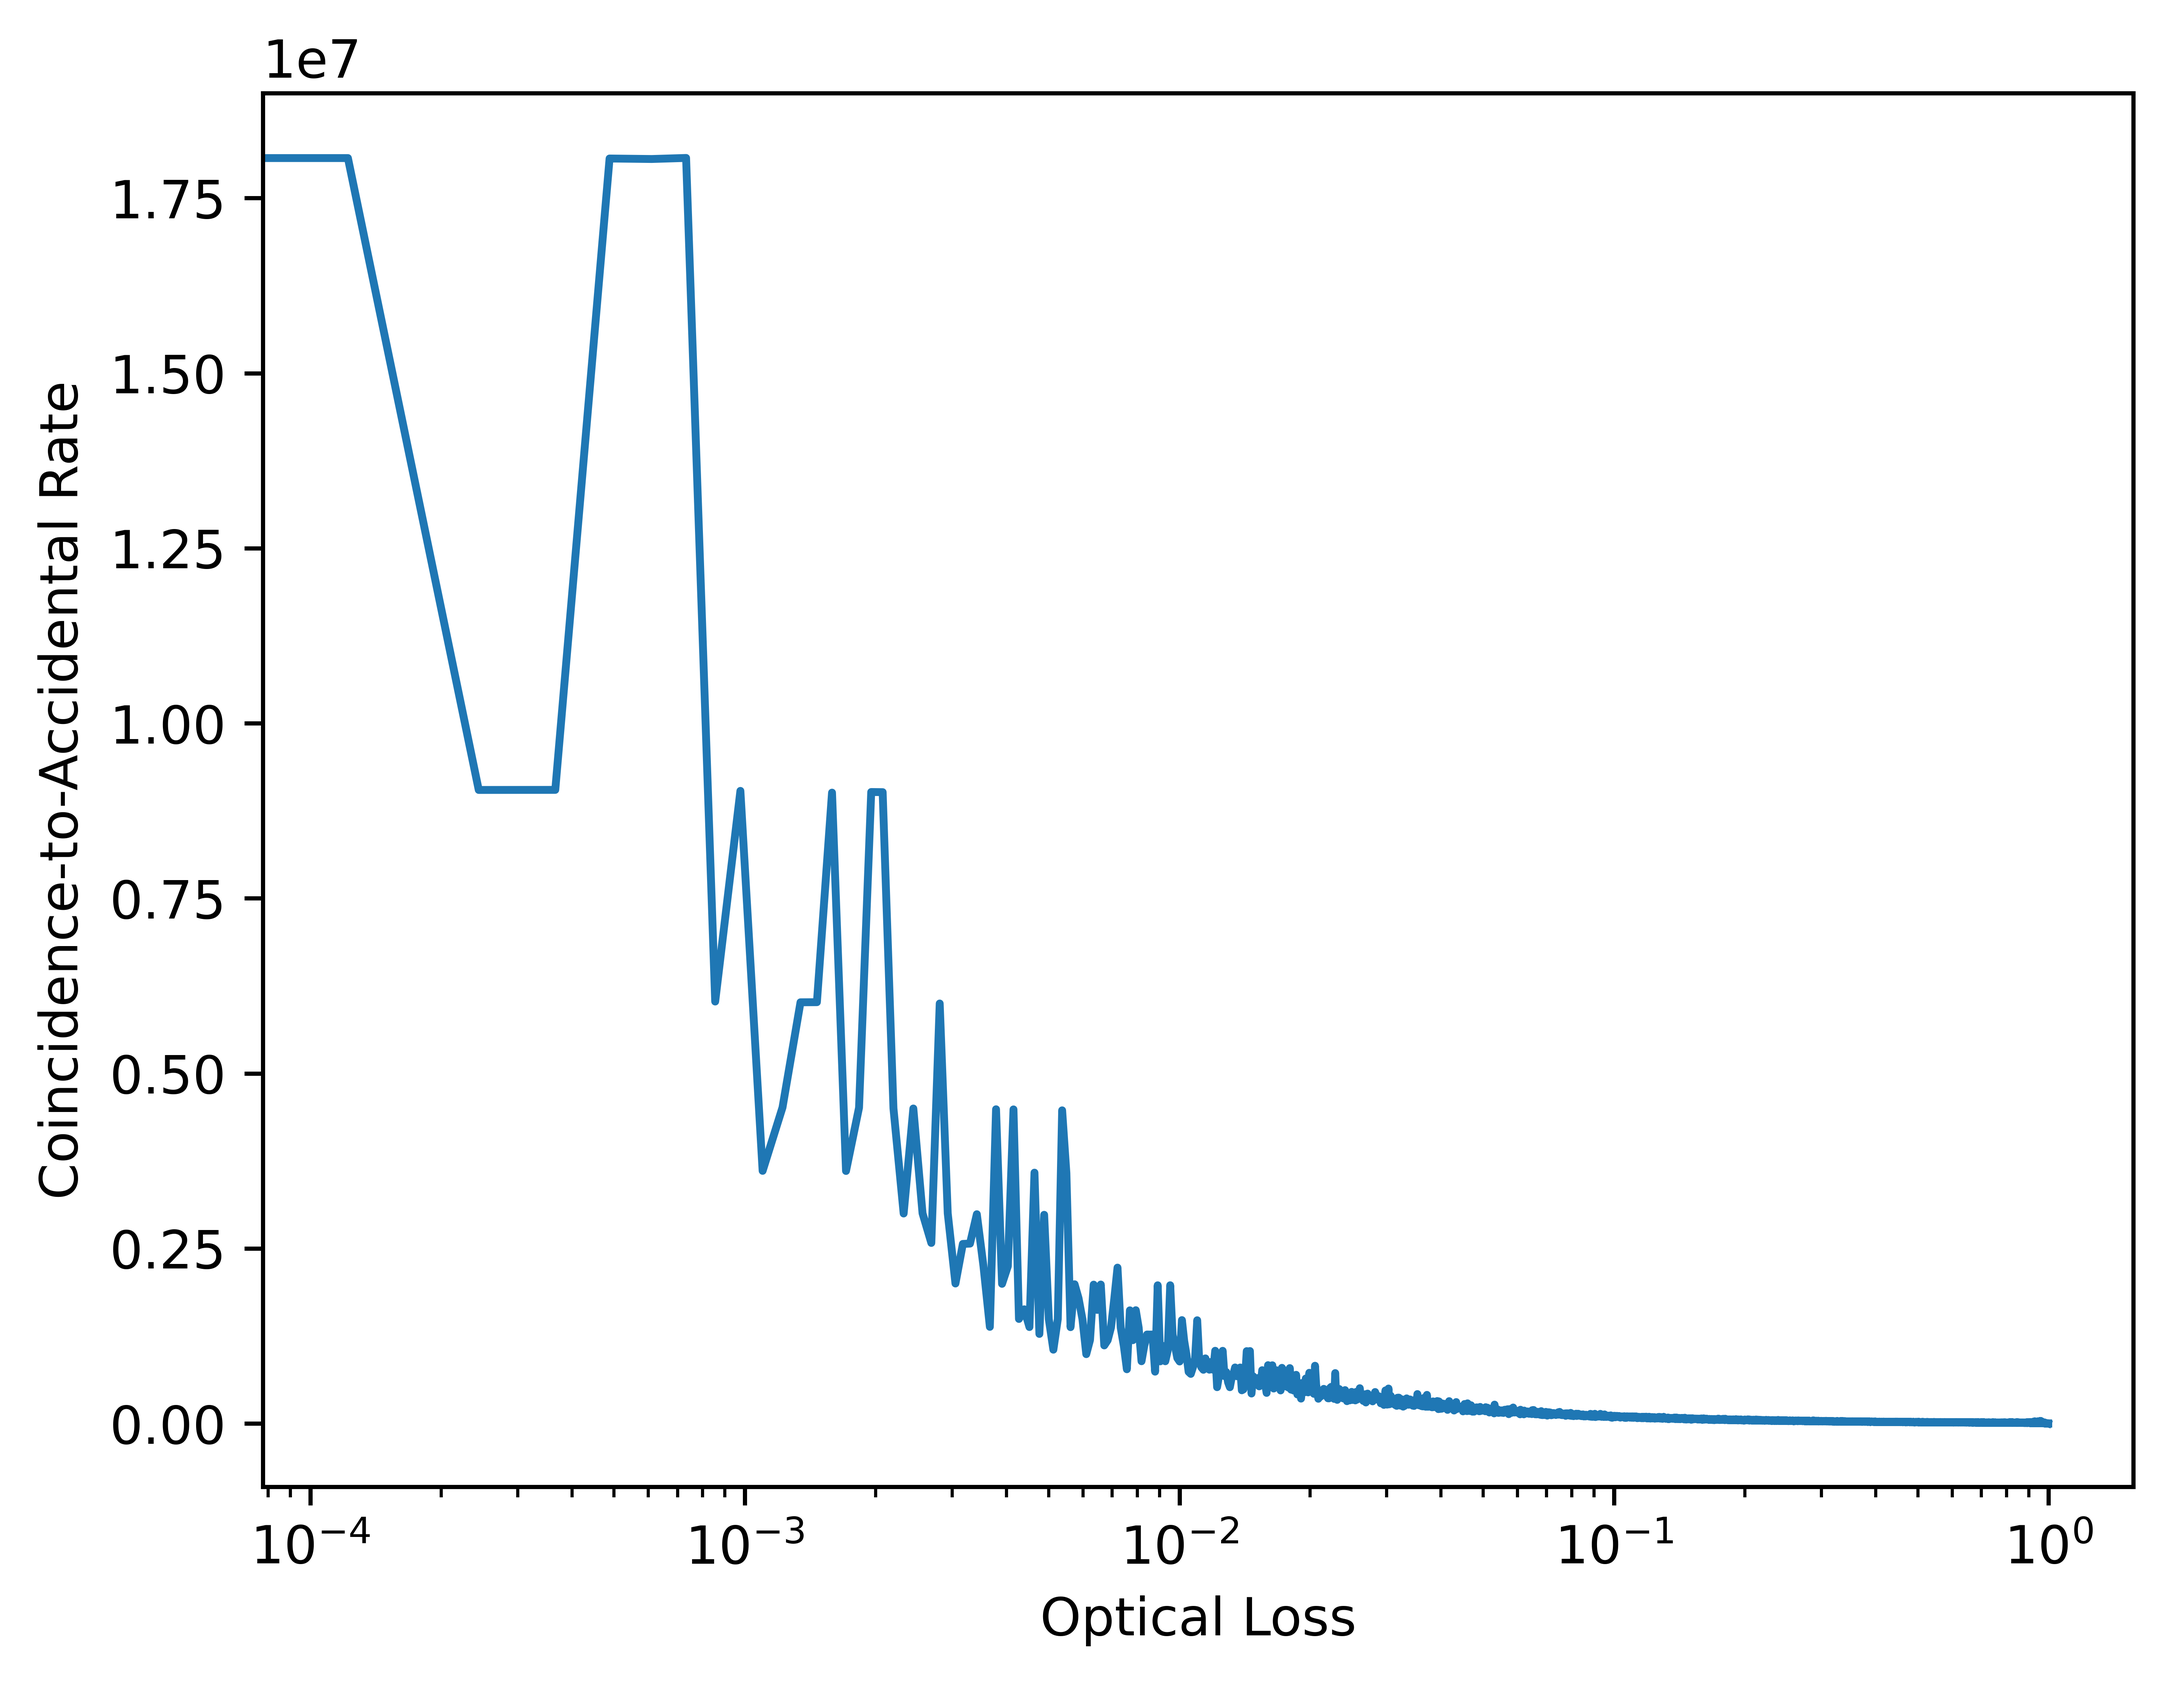
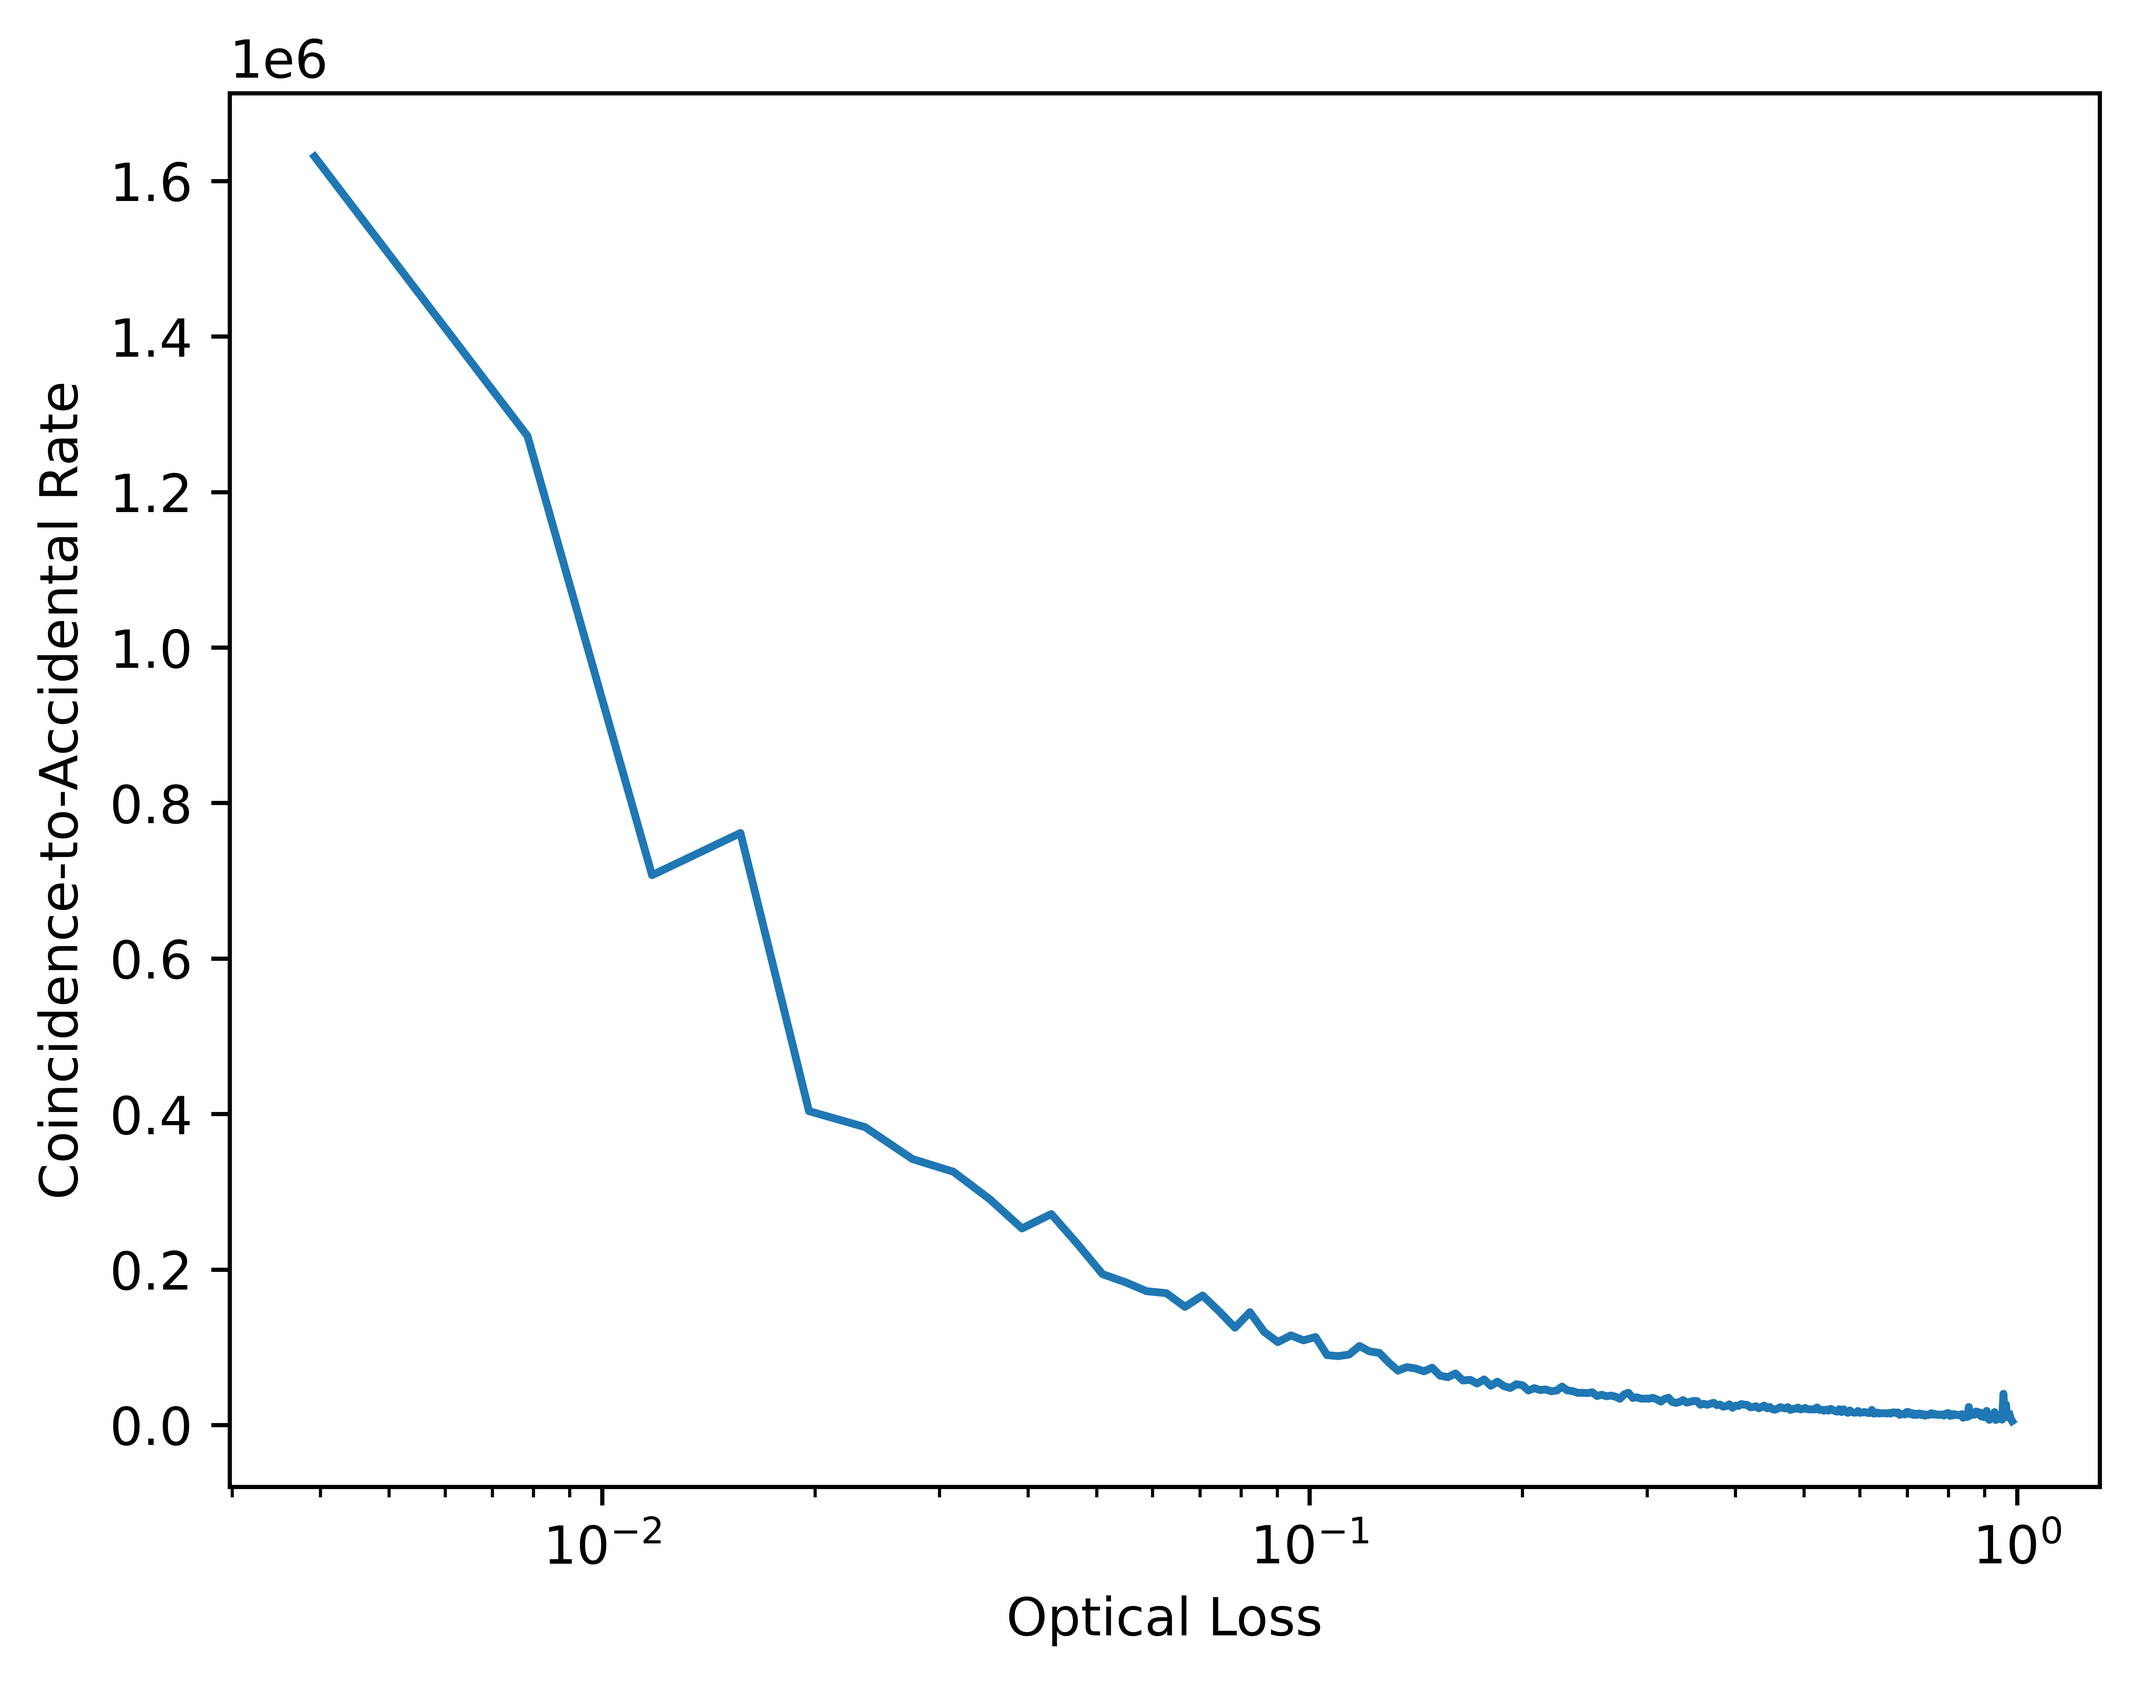
fixed car vs loss

diff --git a/simulations_with_practical_issues/Simulator.py b/simulations_with_practical_issues/Simulator.py
@@ -28,11 +28,11 @@ class Simulator:
         self.timestamps_idler = []
 
         self.max_counts = 0
-        self.histo = np.array
-        self.dtime = np.array
-        self.bins = np.array
-        self.accidentals = np.array
-        self.coincidences = np.array
+        self.histo = 0
+        self.dtime = 0
+        self.bins = 0
+        self.accidentals = 0
+        self.coincidences = 0
 
     def run(self):
         # generate pseudo timestamps following an exponential distribution
@@ -83,49 +83,49 @@ class Simulator:
 
         # ___________________________________________________________________
         # count coincidences
+        if len(self.timestamps_signal) > 0 and len(self.timestamps_idler):
+            range_ps = 200000           # checks the time difference for (-range_ps/2, range_ps/2)
 
-        range_ps = 200000           # checks the time difference for (-range_ps/2, range_ps/2)
+            s_floor = np.int64(np.floor(np.array(self.timestamps_signal) / (range_ps / 2)))
+            i_floor = np.int64(np.floor(np.array(self.timestamps_idler) / (range_ps / 2)))
+            coinc0 = np.intersect1d(s_floor, i_floor, return_indices=True)
+            coinc1 = np.intersect1d(s_floor, i_floor - 1, return_indices=True)
+            coinc2 = np.intersect1d(s_floor, i_floor + 1, return_indices=True)
+            coinc = np.hstack((coinc0, coinc1, coinc2))
 
-        s_floor = np.int64(np.floor(np.array(self.timestamps_signal) / (range_ps / 2)))
-        i_floor = np.int64(np.floor(np.array(self.timestamps_idler) / (range_ps / 2)))
-        coinc0 = np.intersect1d(s_floor, i_floor, return_indices=True)
-        coinc1 = np.intersect1d(s_floor, i_floor - 1, return_indices=True)
-        coinc2 = np.intersect1d(s_floor, i_floor + 1, return_indices=True)
-        coinc = np.hstack((coinc0, coinc1, coinc2))
+            s_time = np.array(self.timestamps_signal)[coinc[1]]
+            i_time = np.array(self.timestamps_idler)[coinc[2]]
+            self.dtime = s_time - i_time
 
-        s_time = np.array(self.timestamps_signal)[coinc[1]]
-        i_time = np.array(self.timestamps_idler)[coinc[2]]
-        self.dtime = s_time - i_time
+            # iterate over coincidence_interval, find max of the max(histo)'s
+            num_steps = 2           # the number of dt's checked for the max
+            for dt in np.arange(0, self.coincidence_interval, self.coincidence_interval/num_steps):
+                bins = np.arange(-range_ps/2 + dt, range_ps/2 + self.coincidence_interval, self.coincidence_interval)
+                histo = np.histogram(self.dtime, bins)[0]
+                curr_count = max(histo)
+                if curr_count > self.max_counts:
+                    self.max_counts = curr_count
+                    self.bins = bins
+                    self.histo = histo
+                else:
+                    break
 
-        # iterate over coincidence_interval, find max of the max(histo)'s
-        num_steps = 2           # the number of dt's checked for the max
-        for dt in np.arange(0, self.coincidence_interval, self.coincidence_interval/num_steps):
-            bins = np.arange(-range_ps / 2 + dt, range_ps / 2 + self.coincidence_interval, self.coincidence_interval)
-            histo = np.histogram(self.dtime, bins)[0]
-            curr_count = max(histo)
-            if curr_count > self.max_counts:
-                self.max_counts = curr_count
-                self.bins = bins
-                self.histo = histo
-            else:
-                break
+            # TODO: fix CAR calculation
+            # ___________________________________________________________________
+            # seperate coincidences and accidentals
 
-        # TODO: fix CAR calculation
-        # ___________________________________________________________________
-        # seperate coincidences and accidentals
+            epsilon = 1             # the difference in means allowed amoung the accidentals
+            max_i = np.argmax(self.histo)
+            i = 0
+            prev = np.mean(np.delete(self.histo, range(max_i - i, max_i + i + 1)))
+            curr = np.mean(np.delete(self.histo, range(max_i - i - 1, max_i + i + 2)))
+            while abs(prev - curr) > epsilon:
+                i += 1
+                prev = np.mean(np.delete(self.histo, range(max_i - i, max_i + i + 1)))
+                curr = np.mean(np.delete(self.histo, range(max_i - i - 1, max_i + i + 2)))
 
-        # epsilon = 1             # the difference in means allowed amoung the accidentals
-        # max_i = np.argmax(self.histo)
-        # i = 0
-        # prev = np.mean(np.delete(self.histo, range(max_i - i, max_i + i + 1)))
-        # curr = np.mean(np.delete(self.histo, range(max_i - i - 1, max_i + i + 2)))
-        # while abs(prev - curr) > epsilon:
-        #     i += 1
-        #     prev = np.mean(np.delete(self.histo, range(max_i - i, max_i + i + 1)))
-        #     curr = np.mean(np.delete(self.histo, range(max_i - i - 1, max_i + i + 2)))
-        #
-        # self.accidentals = np.delete(self.histo, range(max_i - i, max_i + i + 1))
-        # self.coincidences = np.split(self.histo, [max_i - i, max_i + i + 1])[1]
+            self.accidentals = np.delete(self.histo, range(max_i - i, max_i + i + 1))
+            self.coincidences = np.split(self.histo, [max_i - i, max_i + i + 1])[1]
 
     def plot_cross_corr(self):
         plt.hist(self.dtime, self.bins)
@@ -172,8 +172,8 @@ class Simulator:
 if __name__ == "__main__":
     a = Simulator('config.yaml')
     a.run()
-    # print('Coincidences: ' + str(a.get_coincidences()))
-    # print('Coincidence-to-Accidental Ratio: ' + str(a.get_car()))
-    # print('Coincidences per second: ' + str(a.get_coincidences_per_sec()))
-    # print('Accidentals per second: ' + str(a.get_accidentals_per_sec()))
+    print('Coincidences: ' + str(a.get_coincidences()))
+    print('Coincidence-to-Accidental Ratio: ' + str(a.get_car()))
+    print('Coincidences per second: ' + str(a.get_coincidences_per_sec()))
+    print('Accidentals per second: ' + str(a.get_accidentals_per_sec()))
     a.plot_cross_corr()

diff --git a/simulations_with_practical_issues/plot.py b/simulations_with_practical_issues/plot.py
@@ -14,8 +14,9 @@ def plot_g2_darkcounts(yaml_fn, dc, colors=None):
 
     with alive_bar(len(dc), force_tty=True) as bar:
 
+        sim = Simulator(yaml_fn)
+
         for i in range(0, len(dc)):
-            sim = Simulator(yaml_fn)
             sim.set_dc_rate(dc[i])
             sim.run()
             if colors is None:
@@ -57,8 +58,9 @@ def plot_g2_jitter(yaml_fn, jitter, colors=None):
 
     with alive_bar(len(jitter), force_tty=True) as bar:
 
+        sim = Simulator(yaml_fn)
+
         for i in range(0, len(jitter)):
-            sim = Simulator(yaml_fn)
             sim.set_jitter(jitter[i])
             sim.run()
             if colors is None:
@@ -90,6 +92,7 @@ def plot_g2_loss(yaml_fn, loss, colors=None):
                 plt.hist(sim.dtime, sim.bins, alpha=0.5, label=loss[i], color=colors[i])
             bar()
 
+    # TODO: change to decibels
     plt.xlabel('Time difference (ps)')
     plt.ylabel('Counts')
     plt.xlim(-10000, 10000)
@@ -104,8 +107,10 @@ def plot_car_darkcounts(yaml_fn, start, stop, num_points):
     y_val = []
 
     with alive_bar(num_points, force_tty=True) as bar:
+
+        sim = Simulator(yaml_fn)
+
         for dc in x_val:
-            sim = Simulator(yaml_fn)
             sim.set_dc_rate(dc)
             sim.run()
             car = sim.get_car()
@@ -180,6 +185,7 @@ def plot_car_loss(yaml_fn, start, stop, num_points):
     plt.xlabel('Optical Loss')
     plt.ylabel('Coincidence-to-Accidental Rate')
     plt.xscale('log')
+    # TODO: change to dB
     plt.savefig('plots\\car\\car_vs_loss', dpi=1000, bbox_inches='tight')
     plt.show()
 
@@ -281,6 +287,8 @@ def plot_visibility_loss(yaml_fn, state, start, stop, num_points):
     plt.xlabel('Optical Loss')
     plt.ylabel('Visibility')
     plt.ylim(0, 1)
+    # TODO: change to dB
+    plt.xscale('log')
     plt.savefig('plots\\visibility\\visibility_vs_loss', dpi=1000)
     plt.show()
 
@@ -319,7 +327,7 @@ if __name__ == '__main__':
     # plot_g2_jitter('config.yaml', [0, 5000, 10000, 20000, 100000], ['C3', 'C1', 'C2', 'C0', 'C4'])
     plot_g2_loss('config.yaml', [0, 0.2, 0.4, 0.6, 0.8, 1], ['C3', 'C1', 'C8', 'C2', 'C0', 'C4'])
 
-    # plot_car_darkcounts('config.yaml', 0, 90000, 256)
+    # plot_car_darkcounts('config.yaml', 0, 10000, 32)
     # plot_car_deadtime('config.yaml', 0, 1000000, 256)
     # plot_car_jitter('config.yaml', 0, 8000, 1024)
     # plot_car_loss('config.yaml', 0, 1, 256)
